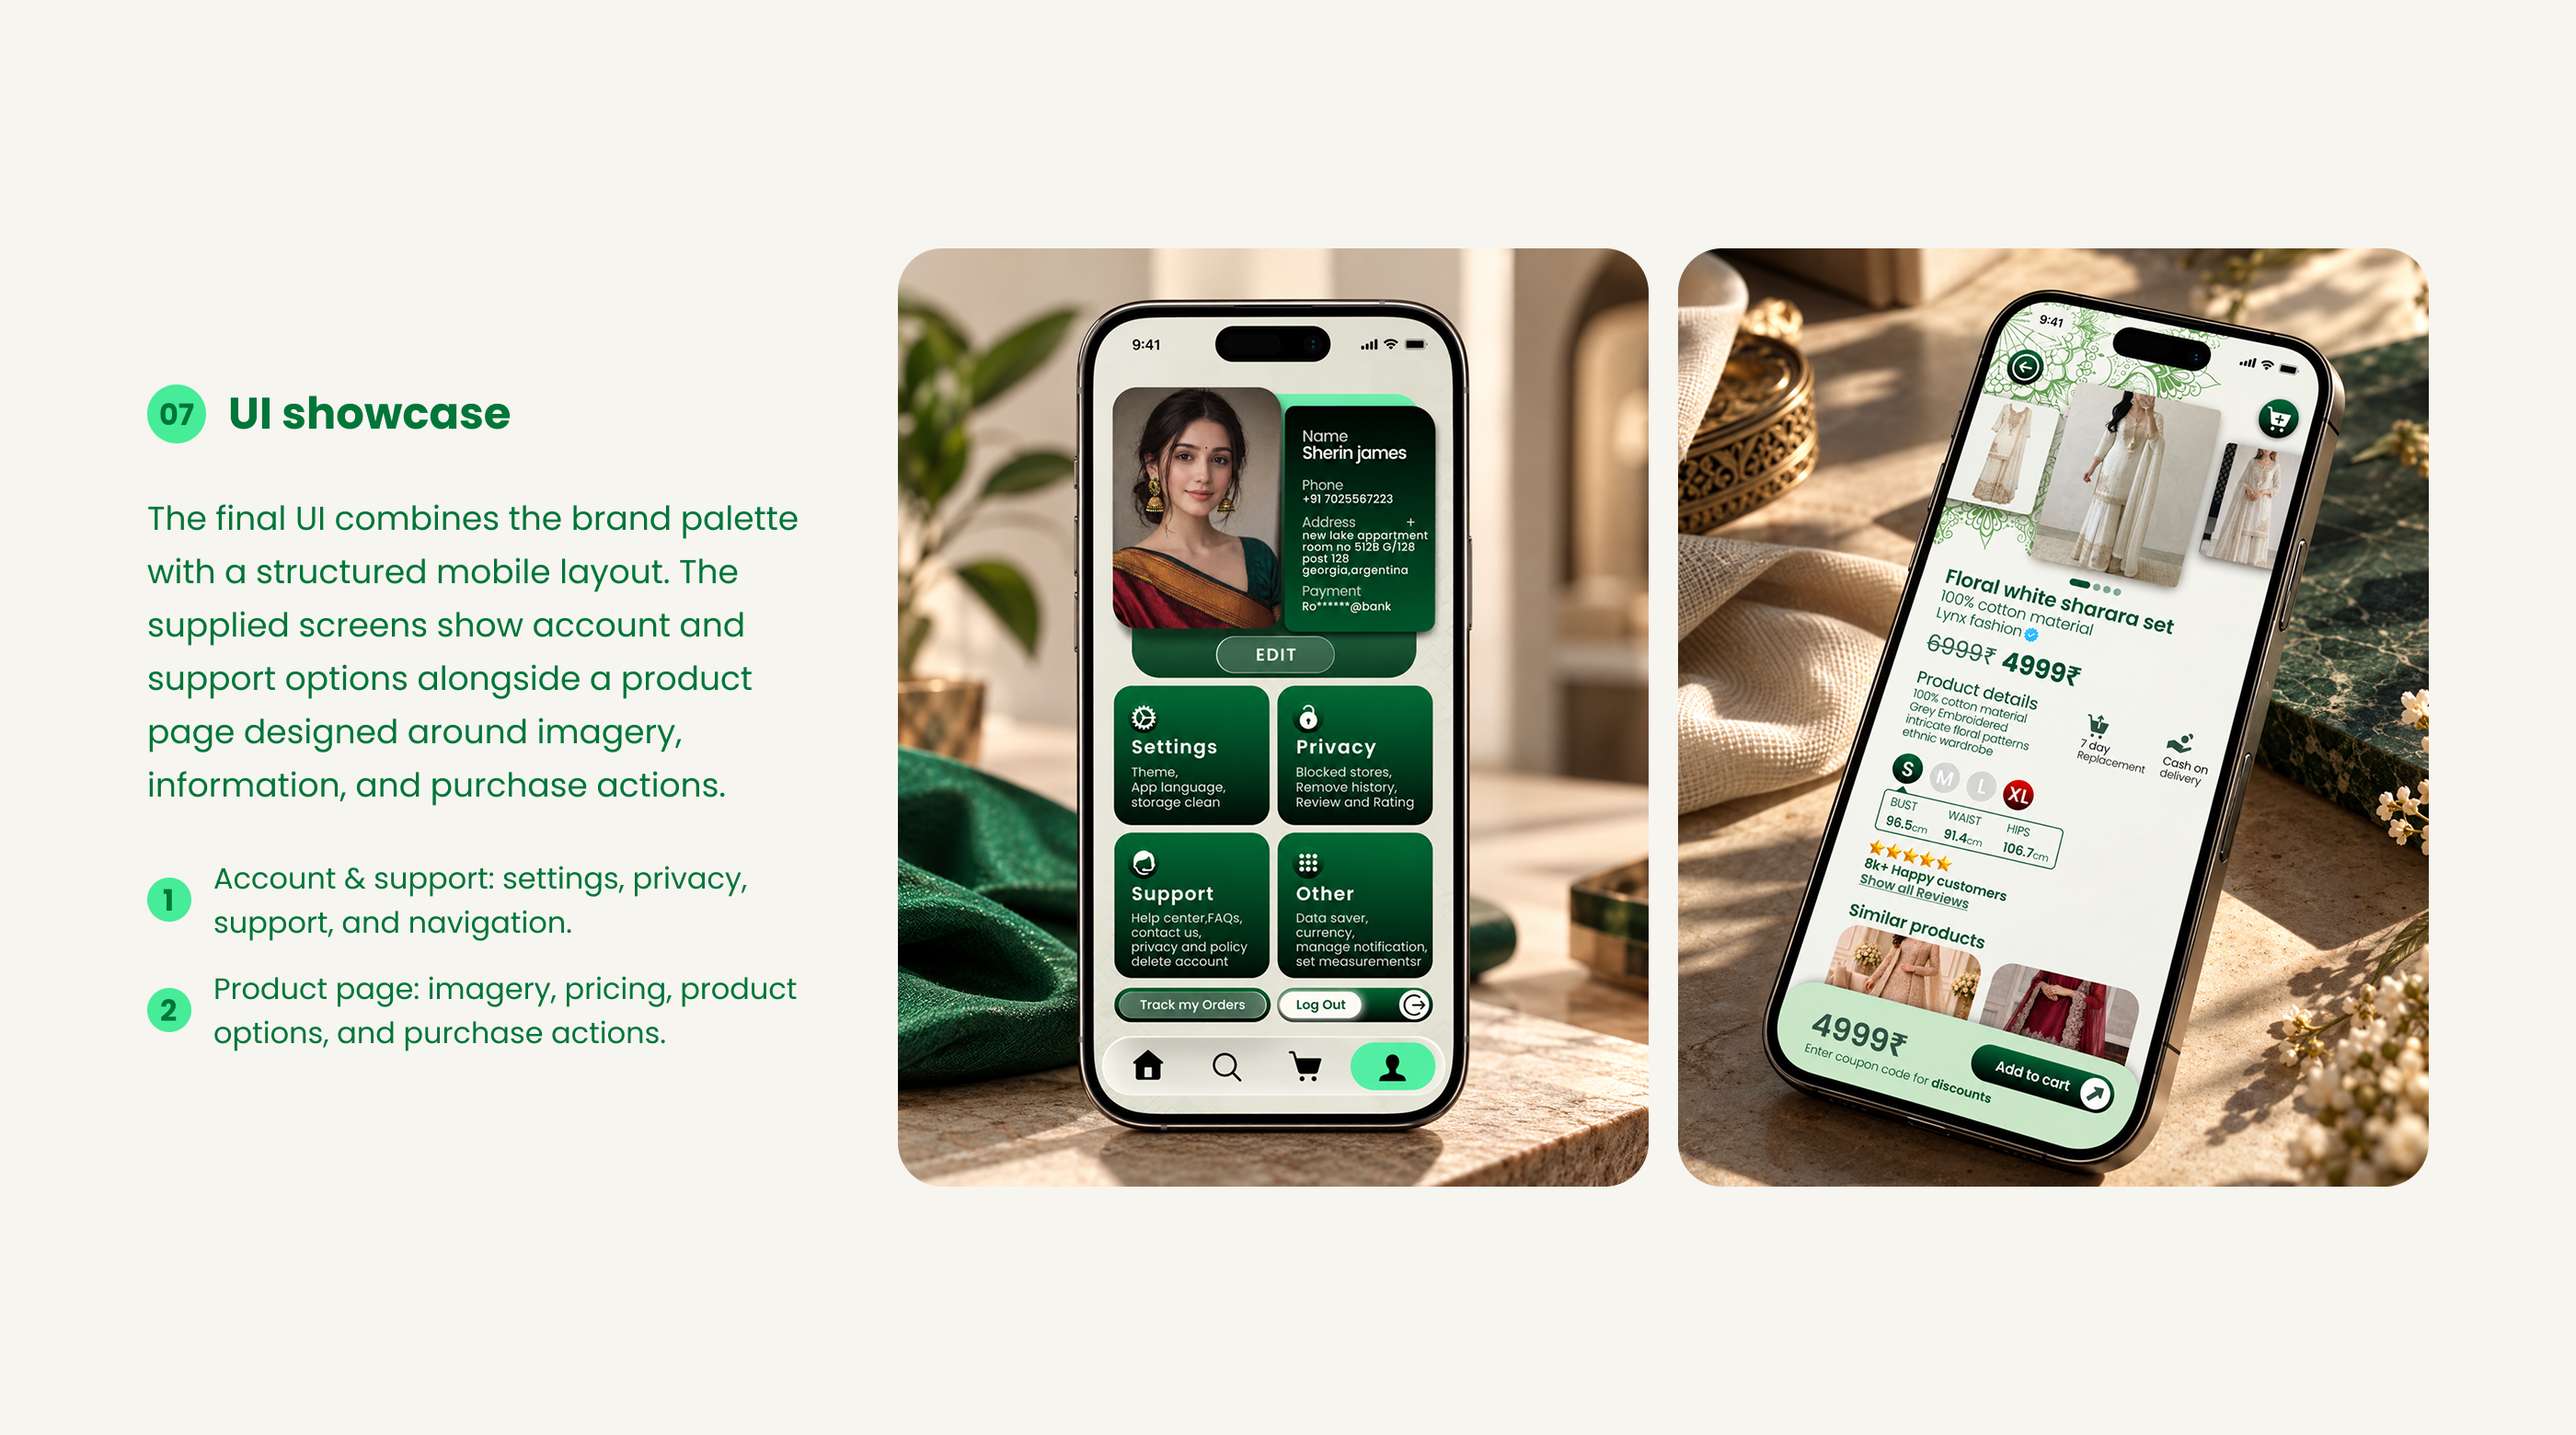
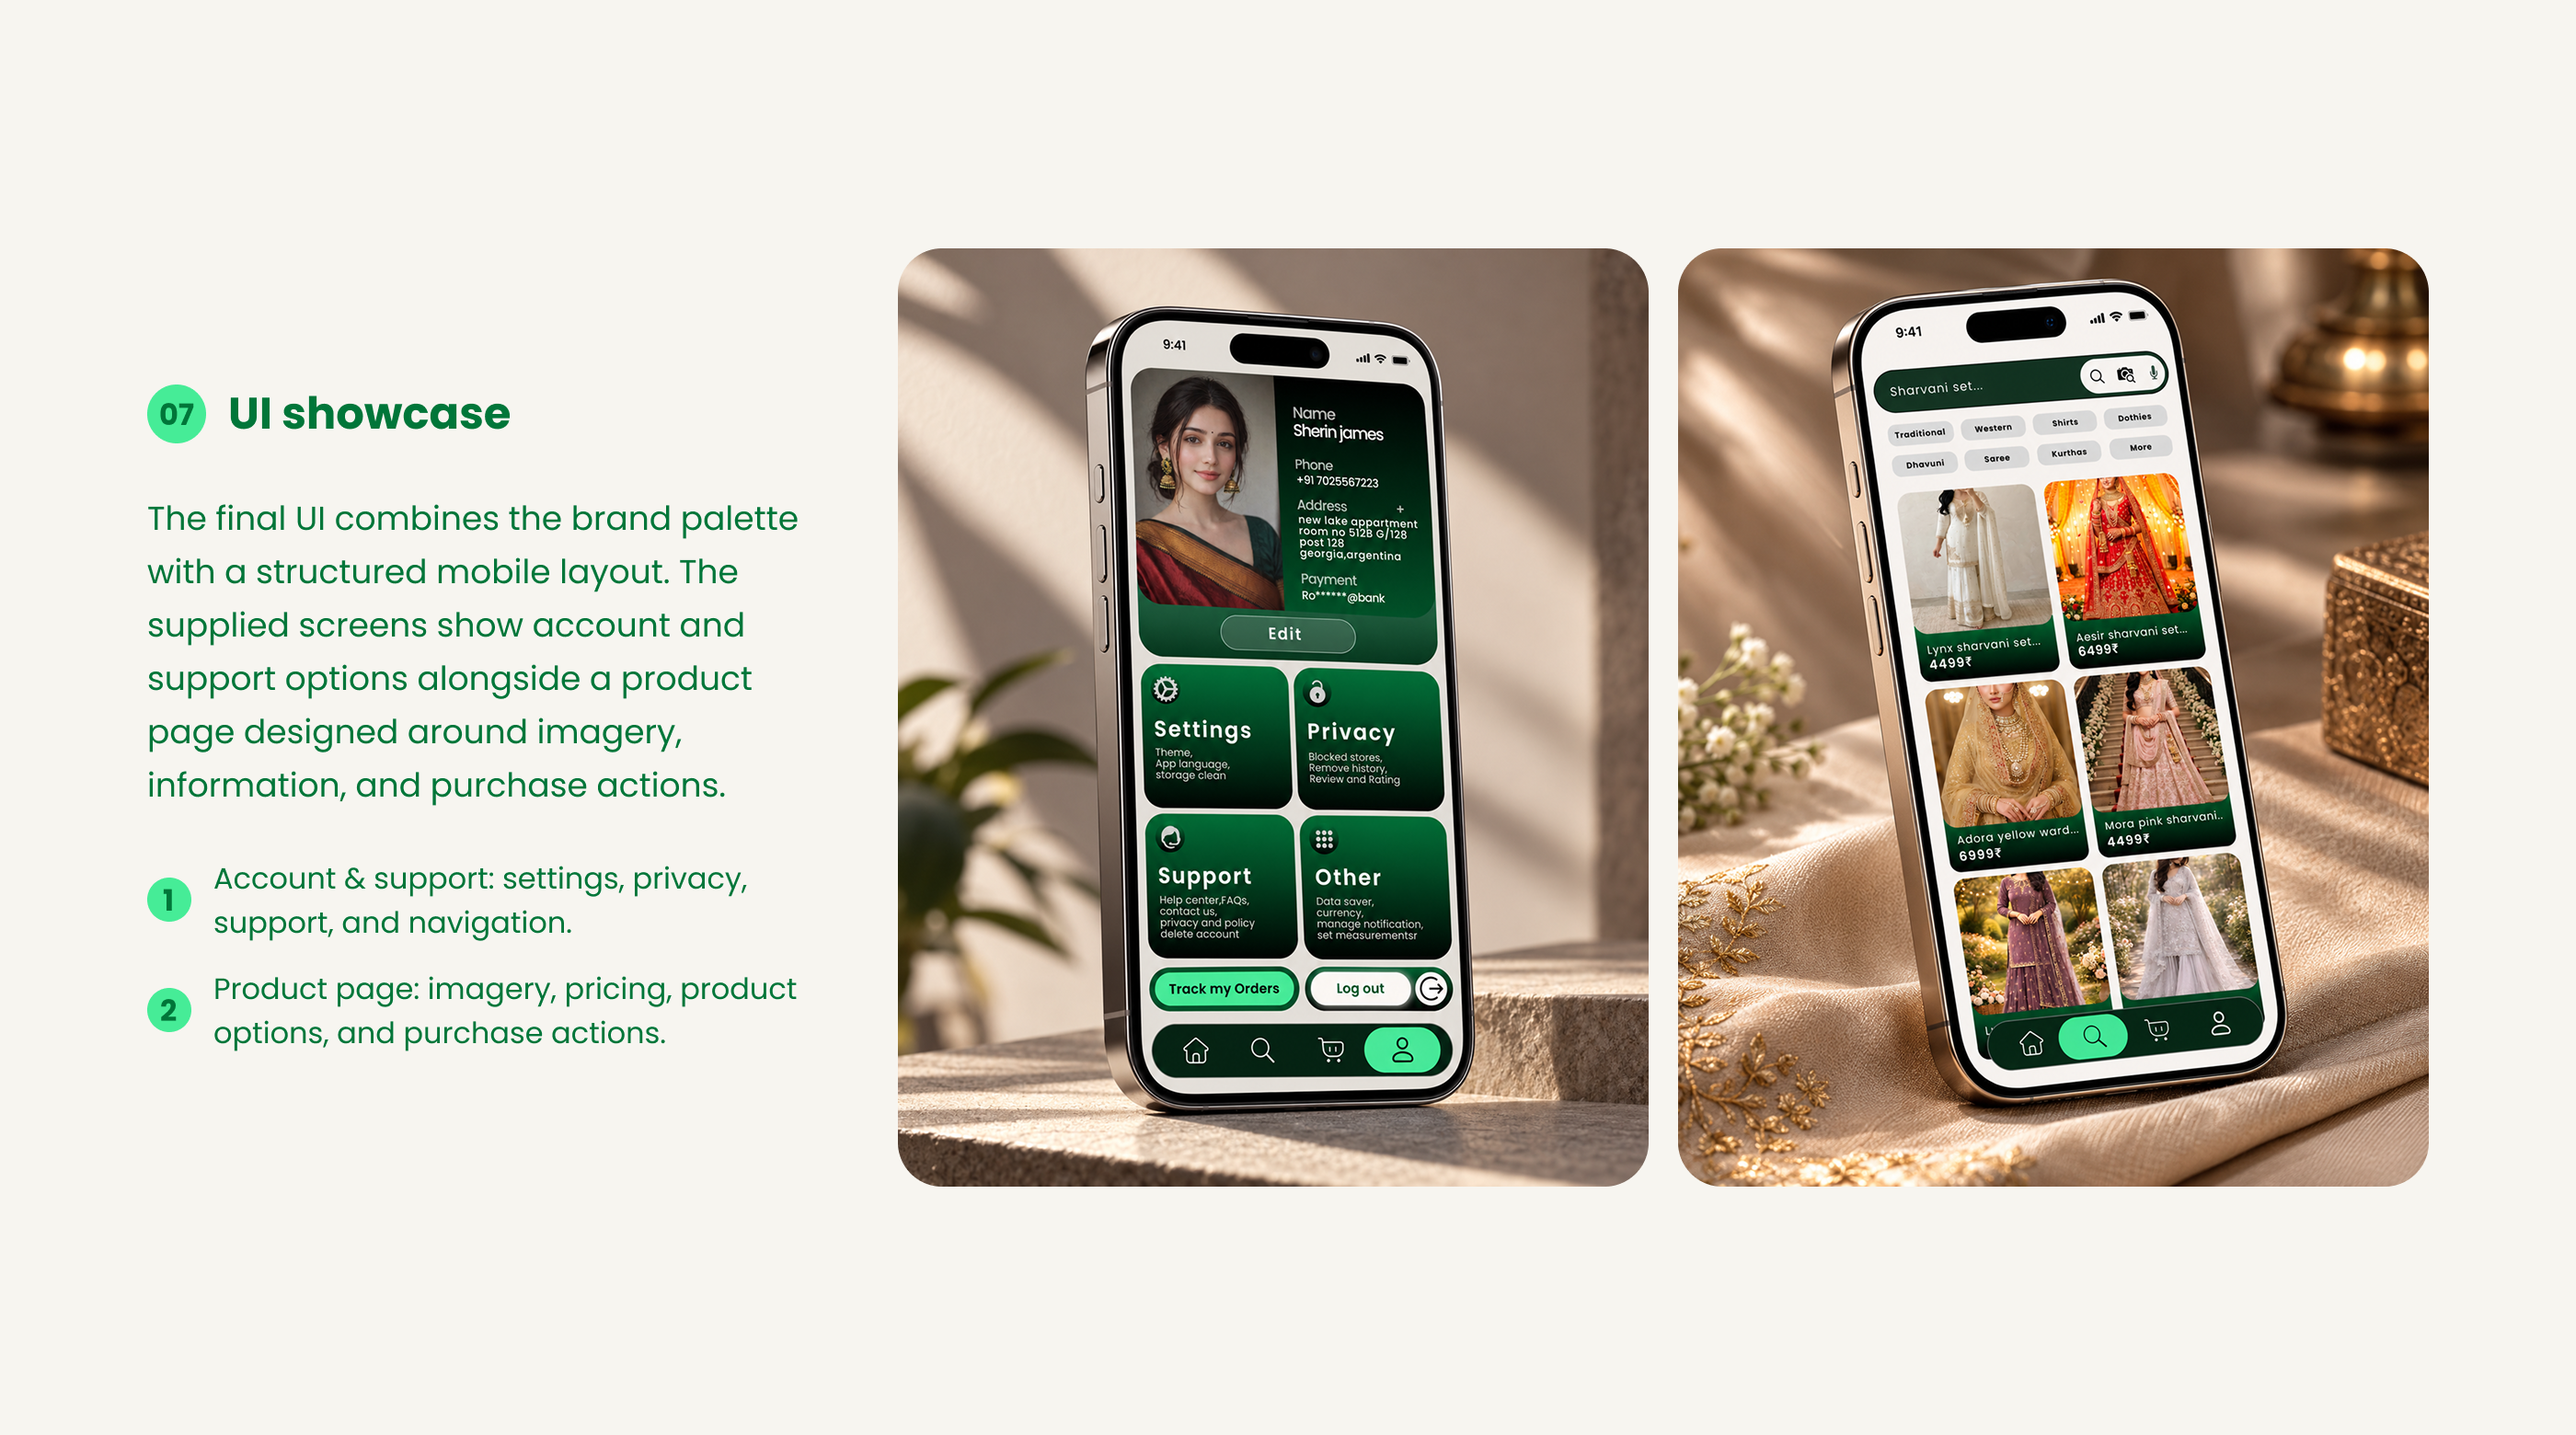
updated case study pro3

diff --git a/index.html b/index.html
@@ -50,7 +50,6 @@ section { scroll-margin-top: 80px; }
 .site-header { position: sticky; top: env(safe-area-inset-top, 0px); z-index: 20; background: color-mix(in srgb, var(--bg) 94%, transparent); border-bottom: 1px solid var(--line); margin-inline: calc(var(--gutter) * -1); padding-inline: var(--gutter); }
 .nav { display: flex; align-items: center; justify-content: space-between; gap: 16px; height: 64px; }
 .brand { font-family: var(--font-display); font-weight: 700; font-size: 1.125rem; letter-spacing: -0.02em; display: inline-flex; align-items: center; gap: 10px; }
-.brand i { width: 8px; height: 8px; border-radius: 50%; background: var(--accent); display: inline-block; }
 .nav-links { display: flex; gap: 28px; align-items: center; }
 .nav-links a { font-size: 0.9375rem; color: var(--muted); transition: color .2s; }
 .nav-links a:hover { color: var(--fg); }
@@ -440,7 +439,7 @@ footer { background: #000; color: #f4f4f2; box-shadow: 0 0 0 100vmax #000; clip-
 
 <header class="site-header">
   <div class="nav wrap">
-    <a class="brand" href="#top"><i></i>Portfolio.</a>
+    <a class="brand" href="#top"><i></i></a>
     <nav class="nav-links" aria-label="Primary">
       <a href="#work">Work</a>
       <a href="#about">About</a>
@@ -541,7 +540,7 @@ footer { background: #000; color: #f4f4f2; box-shadow: 0 0 0 100vmax #000; clip-
           <span class="year">2026</span>
         </div>
       </button>
-      <button type="button" class="card narrow offset" data-project="Project two" aria-label="Open case study: Project two">
+      <button type="button" class="card narrow" data-project="Project two" aria-label="Open case study: Project two">
         <div class="frame r-4-5"><img src="Images/pro2.png"></div>
         <div class="card-meta">
           <div>
@@ -550,7 +549,7 @@ footer { background: #000; color: #f4f4f2; box-shadow: 0 0 0 100vmax #000; clip-
             <div class="tags"><span class="tag">Web platform</span><span class="tag">UX</span></div>
           </div>
           <span class="year">2026</span>
-        </div>  
+        </div>
       </button>
       <button type="button" class="card wide" data-project="Project four" aria-label="Open case study: Project four">
         <div class="frame r-16-10"><img src="Images/Byte & Bean Dashboard Laptop.png"></a></div>
@@ -582,8 +581,7 @@ footer { background: #000; color: #f4f4f2; box-shadow: 0 0 0 100vmax #000; clip-
     <div class="poster-bento" id="more-posters" hidden>
       <figure class="poster p1"><div class="frame"><img src="Images/poster5.png" alt="Poster design 5" loading="lazy" onerror="this.remove()"></div></figure>
       <figure class="poster p2"><div class="frame"><img src="Images/poster6.png" alt="Poster design 6" loading="lazy" onerror="this.remove()"></div></figure>
-      <!-- <figure class="poster"><div class="frame"><span>Poster 07</span><img src="Images/poster7.png" alt="Poster design 7" loading="lazy" onerror="this.remove()"></div></figure>
-      <figure class="poster"><div class="frame"><span>Poster 08</span><img src="Images/poster8.png" alt="Poster design 8" loading="lazy" onerror="this.remove()"></div></figure> -->
+      <figure class="poster p3"><div class="frame"><img src="Images/poster7.jpg" alt="Poster design 6" loading="lazy" onerror="this.remove()"></div></figure>
     </div>
     <div class="more-wrap">
       <button type="button" class="btn ghost more-btn" id="more-posters-btn" aria-expanded="false" aria-controls="more-posters">
@@ -719,79 +717,26 @@ footer { background: #000; color: #f4f4f2; box-shadow: 0 0 0 100vmax #000; clip-
   </div>
 </div>
 
-<!-- Independent case study: Project two. Edit only this block for this project. -->
-<div class="cs" id="cs-project-two" data-project="Project two" role="dialog" aria-modal="true" aria-labelledby="cs-project-two-title" hidden>
+<div class="cs cs-slides" id="cs-project-two" data-project="Project two" role="dialog" aria-modal="true" aria-label="Byte & Bean Tech Café case study" hidden>
   <div class="cs-bar">
-    <span class="mono">Case study</span>
-    <button type="button" class="btn ghost cs-close" id="cs-project-two-close">Close <span aria-hidden="true">✕</span></button>
+    <span class="mono">ONETRIP</span>
+    <button type="button" class="btn ghost cs-close" id="cs-project-one-close">Close <span aria-hidden="true">✕</span></button>
   </div>
-  <div class="wrap cs-body">
-    <div class="cs-head">
-      <p class="mono">[Web Platform] · 2026</p>
-      <h2 class="title" id="cs-project-two-title">Onetrip Parallax-website</h2>
-      <dl class="cs-meta">
-        <div><dt>Role</dt><dd>UI/UX Designer</dd></div>
-        <div><dt>Timeline</dt><dd>2 weeks</dd></div>
-        <div><dt>Team</dt><dd>Individual</dd></div>
-        <div><dt>Tools</dt><dd>Figma, Reve, NotebookLm, Photoshop</dd></div>
-      </dl>
+  <div class="cs-inner">
+    <div class="slides">
+      <figure class="slide"><img src="./Images/Projects/p3-1.png" alt="Byte & Bean Tech Café case study slide 1" loading="lazy" decoding="async"></figure>
+      <figure class="slide"><img src="./Images/Projects/p3-2.png" alt="Byte & Bean Tech Café case study slide 2" loading="lazy" decoding="async"></figure>
+      <figure class="slide"><img src="./Images/Projects/p3-3.png" alt="Byte & Bean Tech Café case study slide 3" loading="lazy" decoding="async"></figure>
+      <figure class="slide"><img src="./Images/Projects/p3-4.png" alt="Byte & Bean Tech Café case study slide 4" loading="lazy" decoding="async"></figure>
+      <figure class="slide"><img src="./Images/Projects/p3-5.png" alt="Byte & Bean Tech Café case study slide 5" loading="lazy" decoding="async"></figure>
+      <figure class="slide"><img src="./Images/Projects/p3-6.png" alt="Byte & Bean Tech Café case study slide 6" loading="lazy" decoding="async"></figure>
+      <figure class="slide"><img src="./Images/Projects/p3-7.png" alt="Byte & Bean Tech Café case study slide 6" loading="lazy" decoding="async"></figure>
+      <figure class="slide"><img src="./Images/Projects/p3-8.png" alt="Byte & Bean Tech Café case study slide 6" loading="lazy" decoding="async"></figure>
     </div>
-    <div class="frame r-21-9"><img src="Images/Pro2screens.png"></div>
-    <div class="cs-sec">
-      <h3>Overview</h3>
-      <div class="txt">
-        <p class="big">ONETRIP is a parallax travel website designed to help users explore Himalayan travel blogs, discover trekking destinations, and follow a guided 5-day trekking plan.
-           The immersive scrolling effects and clear navigation create a more engaging browsing experience while making travel information easier to explore.</p>
-        <p>My role was to design the UI/UX, creating an immersive parallax scrolling experience with engaging visuals, clear navigation, and accessible travel guidance to make trip planning more enjoyable.</p>
-      </div>
-    </div>
-    <div class="cs-sec">
-      <h3>The problem</h3>
-      <div class="txt">
-        <p>Travel websites can overwhelm users with scattered information, complex navigation, and unclear trip-planning details. Based on a review of similar websites,
-           ONETRIP was designed to offer a more engaging experience by combining Himalayan travel blogs, trekking information, and a 5-day itinerary in one accessible platform.</p>
-      </div>
-    </div>
-    <div class="cs-sec">
-      <h3>Research</h3>
-      <div class="txt">
-        <p>Methods: Competitor analysis and travel website review.<br>  
-        Participants: Target users such as adventure seekers and trekking enthusiasts were considered.<br>
-        Key Insights: Users need clear trekking information, easy access to travel blogs, and a structured itinerary. These insights guided ONETRIP’s design to make Himalayan trip planning simpler and more engaging.</p>
-        <div class="frame r-16-10"><img src="Images/pro2research.png"></div>
-      </div>
-    </div>
-    <div class="cs-sec">
-      <h3>Design solution</h3>
-      <div class="txt">
-        <p>Immersive Parallax Scrolling: Created a visually engaging Himalayan experience to inspire travelers.<br>
-          Clear Navigation: Kept menus simple so users can easily explore blogs, trekking details, and travel guides.<br>
-          Guided 5-Day Itinerary: Organized trekking information into a structured plan to simplify trip planning.<br>
-          Strong Call to Action: Added a prominent “Explore More” button to encourage users to discover destinations and guides.</p>
-        <div class="cs-pair">
-          <div class="frame r-4-5"><img src="Images/pro2mockup1.png"></div>
-          <div class="frame r-4-5"><img src="Images/pro2mockup2.png"></div>
-        </div>
-      </div>
-    </div>
-    <!-- <div class="cs-sec">
-      <h3>Outcome</h3>
-      <div class="txt" style="max-width:none">
-        <p>The redesigned interface prioritizes essential travel information, reduces visual clutter, and creates a more focused browsing experience. While usability improvements are expected from these design changes,
-           quantitative results require user testing to validate them.</p>
-        <div class="cs-results">
-          <div><b>90%</b><small>Task Success Rate</small></div>
-          <div><b>35 sec</b><small>Navigation Time</small></div>
-          <div><b>4.2/5</b><small>User Satisfaction</small></div>
-        </div>
-      </div>
-    </div> -->
-    <div class="cs-next">
-      <p class="mono">Next project</p>
-      <button type="button" class="btn" id="cs-project-two-back">Back to all work <span aria-hidden="true">↑</span></button>
+    <div class="slides-end">
+      <button type="button" class="btn" id="cs-project-one-back">Back to all work <span aria-hidden="true">↑</span></button>
     </div>
   </div>
-
 </div>
 
 <!-- Case study slides: Lynx clothing. Put your slide images in Images/project3/ (slide-01.jpg, slide-02.jpg ...) or change the src paths. Add/remove <figure class="slide"> blocks freely. -->
